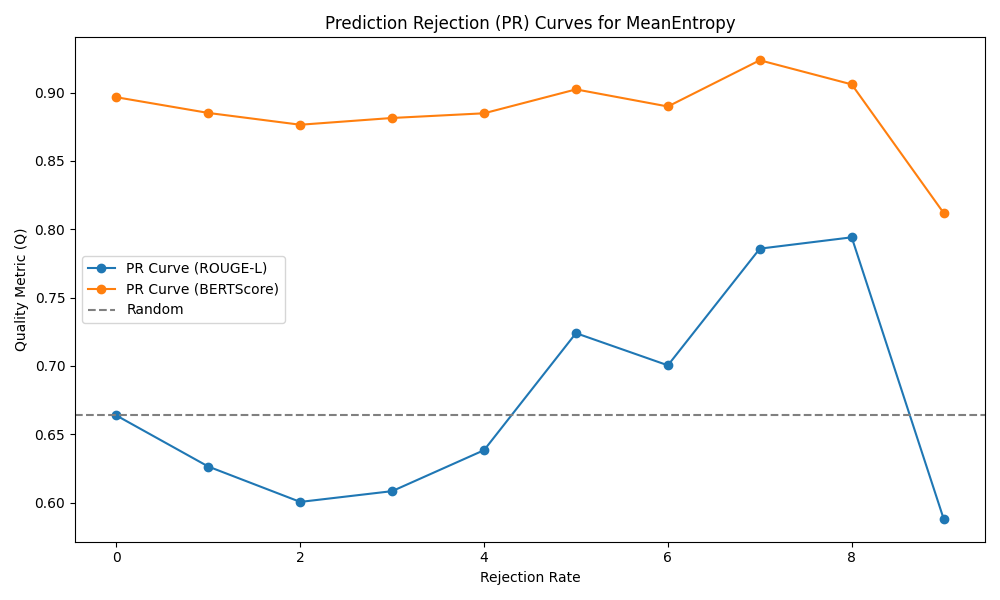
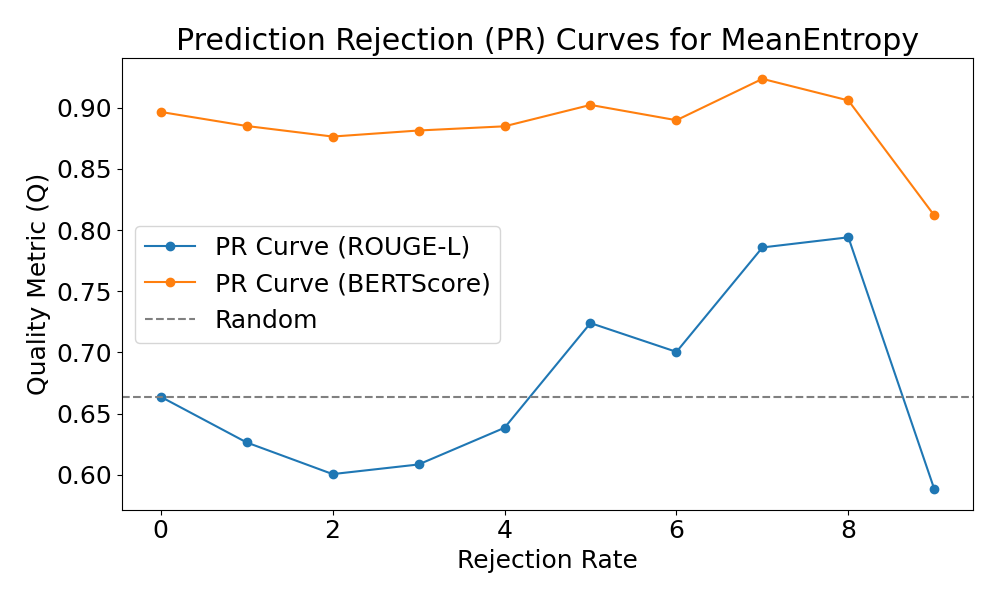
make plot titles bigger

diff --git a/plotting.py b/plotting.py
@@ -33,9 +33,11 @@ def ue_heatmap(df, rows):
         linewidths=0.5, 
         cbar=True
     )
-    plt.title("Heatmap of Metrics by Task and Method", fontsize=14)
-    plt.xlabel("Metric", fontsize=12)
-    plt.ylabel("Task and Method", fontsize=12)
+    plt.title("Heatmap of Metrics by Task and Method", fontsize=20)
+    plt.xlabel("Metric", fontsize=20)
+    plt.ylabel("Task and Method", fontsize=20)
+    plt.xticks(fontsize=16)
+    plt.yticks(fontsize=16)
     plt.tight_layout()
 
     plt.savefig("figures/ue_metrics_heatmap.png")
@@ -87,6 +89,7 @@ def plot_PRR(df_sorted, title):
     prr_bert = (aucpr_unc_bert - aucpr_random_bert) / (aucpr_oracle_bert - aucpr_random_bert)
 
     plt.figure(figsize=(10, 6))
+    plt.rcParams.update({'font.size': 18})
     plt.plot(pr_rouge, label="PR Curve (ROUGE-L)", marker='o')
     plt.plot(pr_bert, label="PR Curve (BERTScore)", marker='o')
     plt.axhline(y=random_curve[0], color='gray', linestyle='--', label="Random")
@@ -123,4 +126,5 @@ def PRR_table(prr_rouge,prr_rouge2,prr_rouge3,prr_bert, prr_bert2, prr_bert3):
     "BERTScore": [prr_bert, prr_bert2, prr_bert3]}
     index = ["MaxSeqProb", "MeanEntropy", "NormEntropy"]
     df = pd.DataFrame(data, index=index)
+    df = df.round(3)
     df.to_csv("figures/PRR_table.csv")
